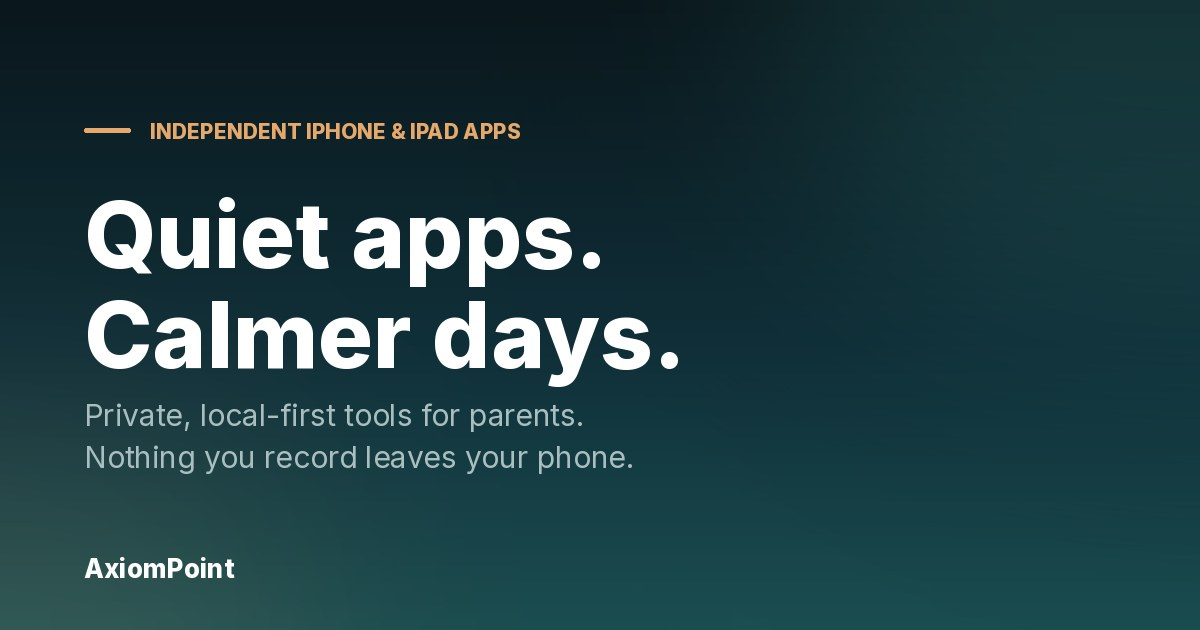
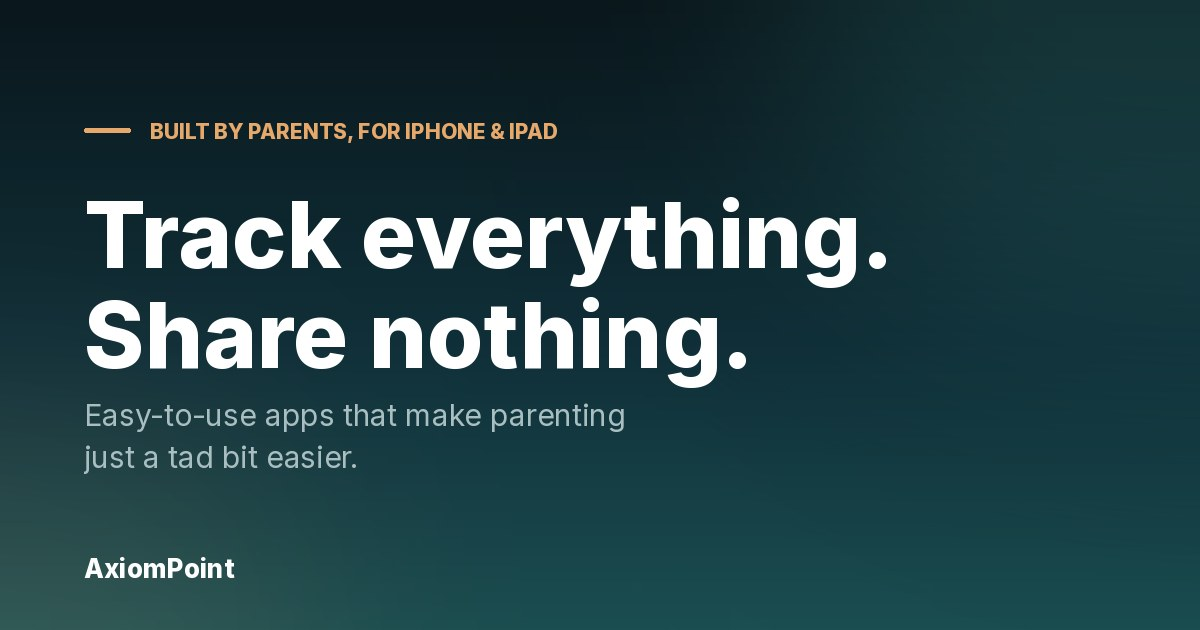
AxiomPoint LLC publisher website

Changed region(s): [[0.0617, 0.3016, 0.74, 0.754], [0.1233, 0.181, 0.4625, 0.2413]]

diff --git a/index.html b/index.html
@@ -3,18 +3,18 @@
 <head>
 <meta charset="utf-8">
 <meta name="viewport" content="width=device-width, initial-scale=1">
-<title>AxiomPoint — calm, private apps for parents</title>
+<title>AxiomPoint — private baby tracking apps for parents</title>
 <meta name="description" content="Privacy-first apps for parents. BabyChart is on the App Store — a baby tracker that keeps every feed, nap and milestone on your own phone.">
 <link rel="canonical" href="https://axiompointlabs.com/">
 <meta property="og:type" content="website">
 <meta property="og:site_name" content="AxiomPoint">
-<meta property="og:title" content="AxiomPoint — calm, private apps for parents">
+<meta property="og:title" content="AxiomPoint — private baby tracking apps for parents">
 <meta property="og:description" content="BabyChart is on the App Store. Privacy-first apps for parents — your family's data stays on your device.">
 <meta property="og:url" content="https://axiompointlabs.com/">
 <meta property="og:image" content="https://axiompointlabs.com/assets/og-axiompoint.jpg">
 <meta property="og:image:width" content="1200">
 <meta property="og:image:height" content="630">
-<meta property="og:image:alt" content="AxiomPoint — simple, private apps for parents.">
+<meta property="og:image:alt" content="AxiomPoint — track everything, share nothing.">
 <meta name="twitter:card" content="summary_large_image">
 <meta name="twitter:image" content="https://axiompointlabs.com/assets/og-axiompoint.jpg">
 <link rel="icon" href="favicon.png">
@@ -70,12 +70,10 @@
     <div class="wrap">
       <div class="hero-grid">
         <div>
-          <span class="eyebrow">Independent iPhone &amp; iPad apps</span>
-          <h1>Quiet apps.<br>Calmer days.</h1>
+          <span class="eyebrow">Built by parents, for iPhone &amp; iPad</span>
+          <h1>Track everything.<br>Share nothing.</h1>
           <p class="lede">
-            AxiomPoint builds focused tools for parents and caregivers — careful with
-            what they claim, and built so everything you record about your family stays
-            on your own device.
+            AxiomPoint makes easy-to-use apps that make parenting just a tad bit easier.
           </p>
           <div class="btn-row">
             <a class="btn btn-primary" href="https://apps.apple.com/us/app/babychart/id6800567624">Download BabyChart</a>
@@ -86,17 +84,17 @@
         <div class="applist">
           <a class="applink" href="babychart/index.html">
             <span class="ci"><img src="assets/babychart-icon.png" alt="" width="46" height="46"></span>
-            <span class="ct"><span class="cname">BabyChart</span><span class="csub">Feeds, diapers &amp; sleep</span></span>
-            <span class="flag">On the App&nbsp;Store</span>
+            <span class="ct"><span class="cname">BabyChart</span><span class="csub">Feeds, diapers, sleep</span></span>
+            <span class="flag">App&nbsp;Store</span>
           </a>
           <a class="applink" href="kids-nutrition/index.html">
             <span class="ci"><svg viewBox="0 0 24 24" fill="none" stroke="currentColor" stroke-width="1.7" stroke-linecap="round" stroke-linejoin="round" aria-hidden="true"><path d="M12 21c4.5-2.5 7-6.2 7-10a7 7 0 0 0-14 0c0 3.8 2.5 7.5 7 10Z"/><path d="M12 21V9"/><path d="M12 13c1.6 0 3-1.2 3-2.7"/></svg></span>
-            <span class="ct"><span class="cname">Kids nutrition app</span><span class="csub">Meals, targets and allergens</span></span>
+            <span class="ct"><span class="cname">Kids nutrition app</span><span class="csub">Meals and nutrition</span></span>
             <span class="flag soon">Coming soon</span>
           </a>
           <a class="applink" href="approach.html">
             <span class="ci"><svg viewBox="0 0 24 24" fill="none" stroke="currentColor" stroke-width="1.7" stroke-linecap="round" stroke-linejoin="round" aria-hidden="true"><path d="M12 3l7 3v5.5c0 4.3-2.9 8.2-7 9.5-4.1-1.3-7-5.2-7-9.5V6Z"/><path d="M9.3 12.2l1.9 1.9 3.6-3.8"/></svg></span>
-            <span class="ct"><span class="cname">No accounts, no cloud</span><span class="csub">Your records never leave the phone</span></span>
+            <span class="ct"><span class="cname">No accounts, no cloud</span><span class="csub">Nothing leaves your phone</span></span>
           </a>
         </div>
       </div>

diff --git a/style.css b/style.css
@@ -1390,3 +1390,35 @@ main > section.guide-body .guide-cta p { color: var(--on-deep-soft); }
   margin-top: auto; padding-top: 8px;
   font-size: 14.5px; font-weight: 700; color: var(--accent);
 }
+
+/* "Track everything. / Share nothing." only works as two lines. At 82px the
+   first sentence broke across two, turning a two-beat headline into three. */
+body:not(.bam):not(.nn) .hero-grid { grid-template-columns: 1.26fr .74fr; }
+body:not(.bam):not(.nn) .hero h1 {
+  font-size: clamp(38px, 5.2vw, 68px);
+  line-height: .98;
+  letter-spacing: -.045em;
+}
+@media (max-width: 940px) {
+  body:not(.bam):not(.nn) .hero-grid { grid-template-columns: 1fr; }
+  body:not(.bam):not(.nn) .hero h1 { font-size: clamp(36px, 9vw, 54px); }
+}
+
+/* Between 940 and 1060 the hero was still two columns but too narrow for
+   the app chips, so their subtitles wrapped. Stack a little earlier. */
+@media (max-width: 1060px) {
+  body:not(.bam):not(.nn) .hero-grid { grid-template-columns: 1fr; gap: 40px; }
+  body:not(.bam):not(.nn) .hero h1 { font-size: clamp(36px, 7.4vw, 62px); }
+  .applist { max-width: 520px; }
+}
+
+/* On the narrowest phones the chip flag and subtitle compete for one row;
+   drop the flag beneath the label rather than let the subtitle wrap. */
+@media (max-width: 380px) {
+  .applink { flex-wrap: wrap; row-gap: 8px; }
+  .applink .flag { margin-left: 61px; }
+}
+
+@media (max-width: 340px) {
+  body:not(.bam):not(.nn) .hero h1 { font-size: 30px; letter-spacing: -.04em; }
+}
